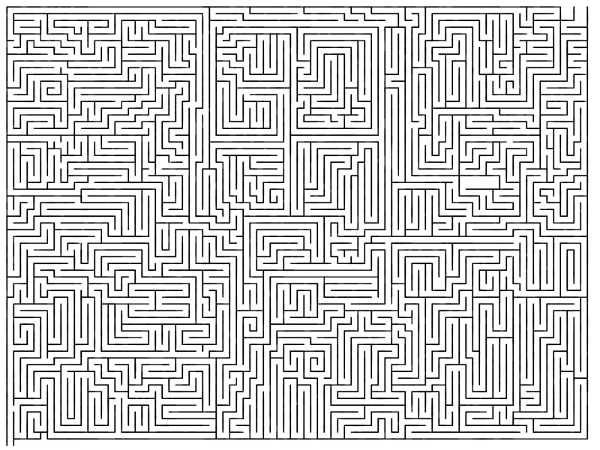
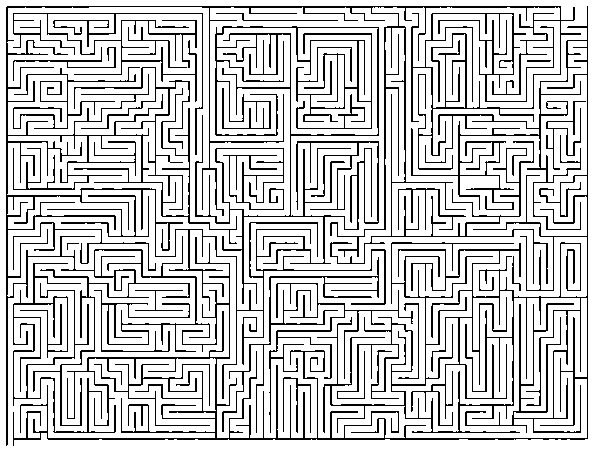
Create value map for the maze
1 - Create the value map to compute the "value iteration" path

2 - Transform the images in a 1-bit (black & white) images to facilitate
the transformation of the image.

3 - Get rid of the alpha channel and flatten the images using:

convert -flatten -background white -alpha remove orig.png dst.png

Changed region(s): [[0.0, 0.0, 0.99, 0.9956]]

diff --git a/src/planning.py b/src/planning.py
@@ -8,11 +8,12 @@ from PIL import Image, ImageTk
 # Read image
 class MainWindow():
     def __init__(self):
-        self.data = mpimg.imread('../maze-images/laberinto-01.png')
+        self.data = mpimg.imread('../maze-images/maze-01.png')
         self.data = (self.data * 255).round().astype(np.uint8)
 
         # TODO: Transform the data to a 0, inf matrix. Where inf is
         # obstacle.
+        self.maze = self.getMap(self.data)
         
         self.width = self.data.shape[1]
         self.height = self.data.shape[0]
@@ -48,7 +49,8 @@ class MainWindow():
     def onLeftButton(self, event):
         # TODO: Mark as start of the path
         self.canvas.create_line(event.x, event.y,
-                                event.x + 1, event.y)
+                                event.x + 1, event.y,
+                                fill='red')
         print "Left button on", event.x, event.y
         # TODO: Fire the createPath method only if start and end are
         # defined
@@ -56,17 +58,28 @@ class MainWindow():
     def onRightButton(self, event):
         # TODO: Mark as the end of the path
         self.canvas.create_line(event.x, event.y,
-                                event.x + 1, event.y)
+                                event.x + 1, event.y,
+                                fill='green')
         print "Right button on", event.x, event.y
         # TODO: Fire the createPath method only if start and end are
         # defined
+
+    def getMap(self, data):
+        maze = np.full(shape = data.shape,
+                       fill_value = float('inf'))
+
+        for index, value in np.ndenumerate(self.data):
+            if value == 255:
+                maze[index] = 0
+
+        return maze
+                    
+            
 
         
 # TODO: Uncomment and indent        
 # if __name__ == '__main__':
 x=MainWindow()
-
-# TODO: Show image in a interactive window
 
 # TODO: Select start and goal
 

diff --git a/README.md b/README.md
@@ -2,9 +2,19 @@
 
 ## Installation
 
-- Install python PyPNG package
+- Python packages to install
+matplotlib
+numpy
+pil (python image library)
+pil.imagetk
 
   Must be installed with root priviledges, maybe you have to install
   pip first.
   
   pip install pypng 
+
+## Images are preprocessed using to get rid of alpha channel and have
+the color represented by one float32 instead of an RGB array:
+
+convert -flatten -background white -alpha remove orig.png dst.png 
+
